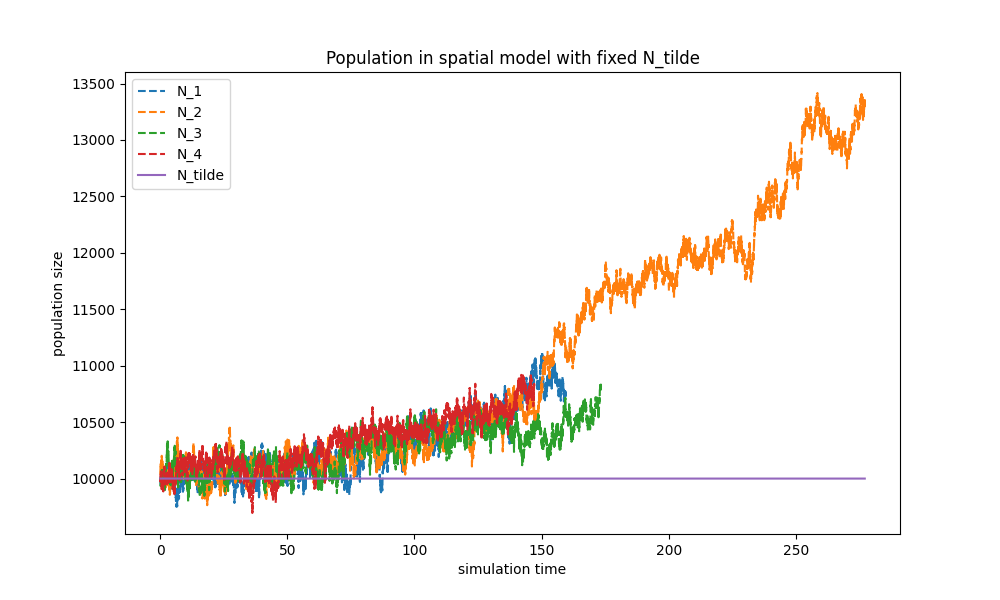
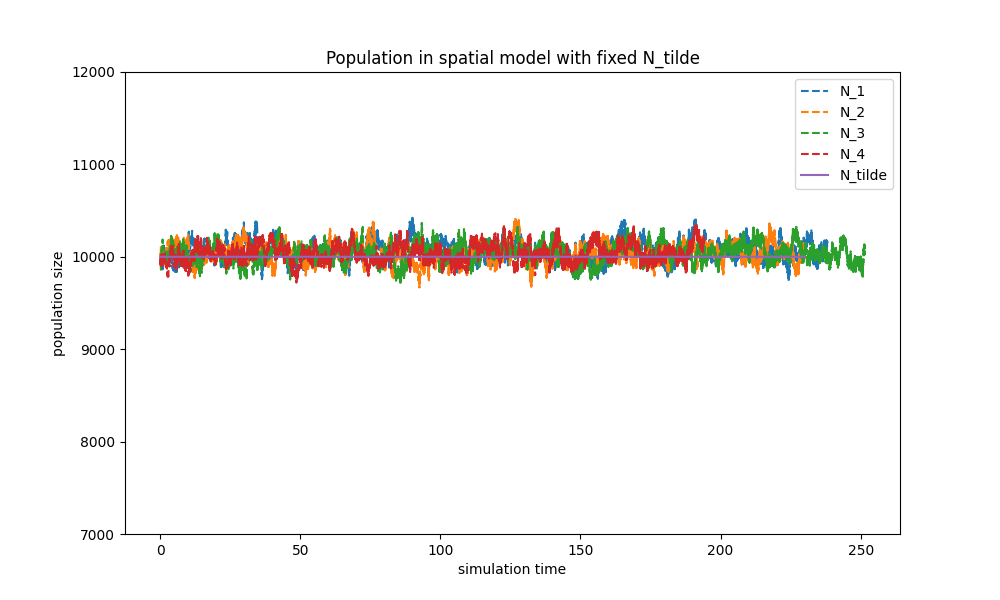
adjusted parameters

diff --git a/src/stocco_lib.py b/src/stocco_lib.py
@@ -425,8 +425,6 @@ class world_w_neighbours:
         self.mu = []
         for i in range(self.resolution):
             self.mu.append(np.full(self.m, 1 / self.N[i]))
-            #self.mu.append(np.full(self.m, 1/((self.N_tot/self.resolution)*(1+len(self.neigh[i])/4))))
-            #self.mu.append(np.full(self.m, 1 / self.N_tot))
 
 
     # computes events' rates
@@ -436,8 +434,6 @@ class world_w_neighbours:
         
         for i in range(self.resolution):
             
-            #N_tilde_adj = N_tilde * (1+len(self.neigh[i])/4)   # N_tilde adjusted depending on the 
-                                                               # number of neighbours
             # distribution of population in genotipic space adjusted depending on the neighbours' 
             # distributions (the contribute of the neighbours is reduced of a factor 4)
             x_adj = self.x[i][:self.m_temp[i]].copy()
@@ -456,9 +452,6 @@ class world_w_neighbours:
                 norm_death += self.N[ngb_id] / 4
             norm_death /= self.N[i]
             a_id[self.m_temp[i]:] /= norm_death
-            
-            #a_id /= (1+len(self.neigh[i])/4) / self.resolution   # 'renormalization' of the rates
-            #a_id /= (1+len(self.neigh[i])/4)
 
             self.a.append(a_id) 
 

diff --git a/dynamic_population/analysis.py b/dynamic_population/analysis.py
@@ -115,6 +115,7 @@ plt.plot(time, N, label='N_4', linestyle='--')
 plt.plot(time_max, N_tilde_max, label='N_tilde', linestyle='-')
 
 # Set labels and title
+plt.ylim(7000, 12000)
 plt.xlabel('simulation time')
 plt.ylabel('population size')
 plt.title('Population in spatial model with fixed N_tilde')

diff --git a/src/spatial_ngb.py b/src/spatial_ngb.py
@@ -109,7 +109,7 @@ if __name__ == "__main__":
         # applying Gillespie's algorithm
         #if h_index < resolution:
         #    wrld.Gillespie_apply(h_index)
-        if mid_e < tau:
+        if mid_e < tau:   # heuristic error fixing
             wrld.Gillespie_apply(h_index)
 
 
